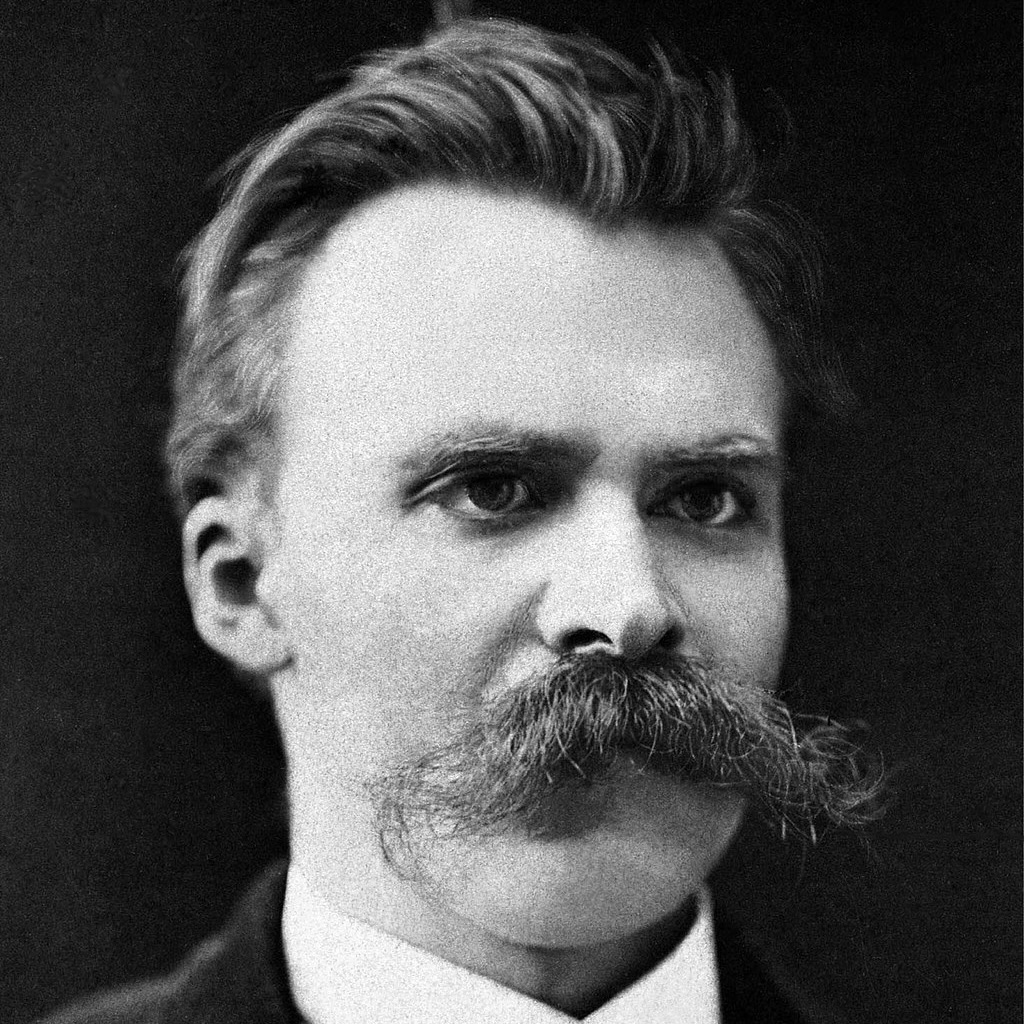
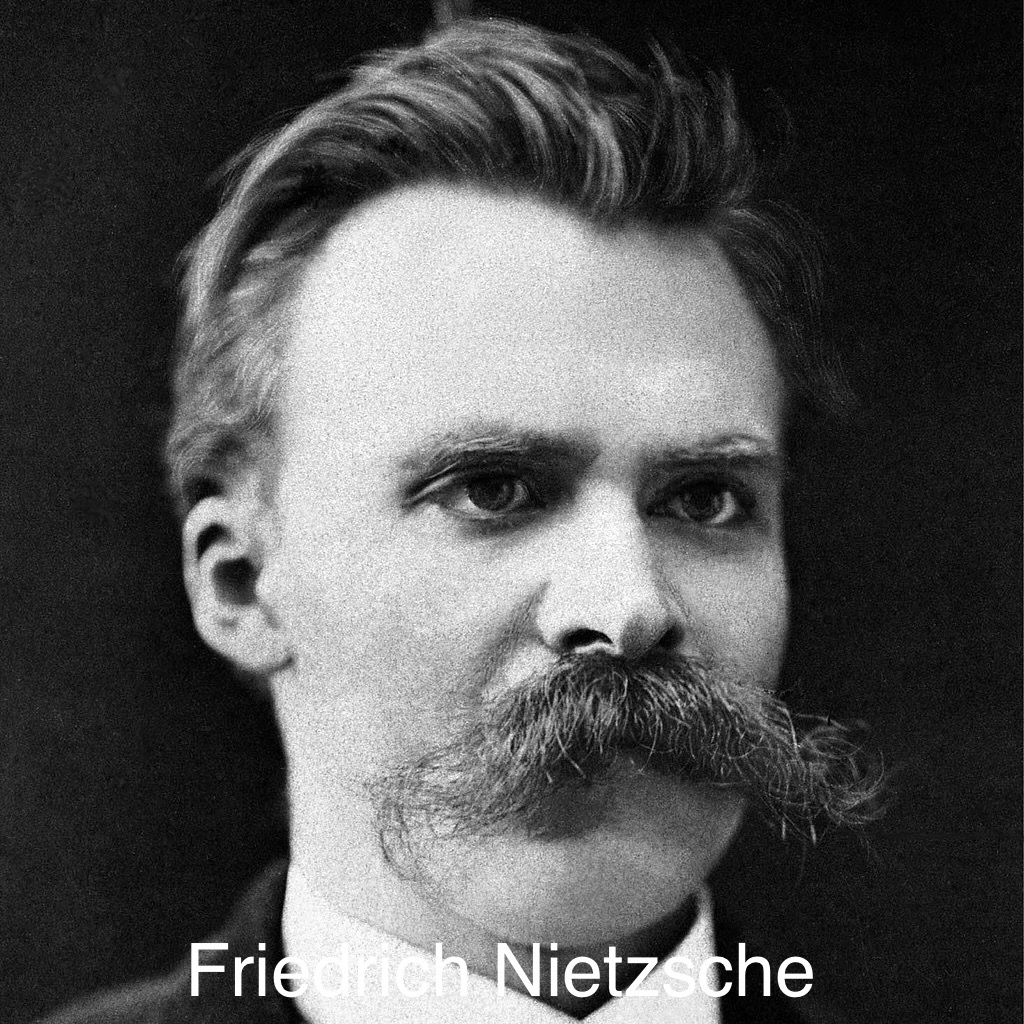
Add names to images

Changed region(s): [[0.4375, 0.9062, 0.8125, 0.9688], [0.1875, 0.9062, 0.3125, 0.9688], [0.4062, 0.9062, 0.4375, 0.9375]]

diff --git a/index.html b/index.html
@@ -9,7 +9,7 @@
       <h2 class="sidebar-title">Human</h2>
       <p class="score-display" id="humanScore">Score: 0</p>
       <button class="change-game hidden" id="changeGame">Change Game</button>
-      <img class="greek-column" src="./assets/colunn.svg" alt="greek column">
+      <img class="greek-column" src="./assets/column.svg" alt="greek column">
     </section>
     <section class="main-container">
       <h1>Philosophy Game!</h1>
@@ -64,7 +64,7 @@
       <img class="icon" src="./assets/computer.svg" alt="computer image">
       <h2 class="sidebar-title">Computer</h2>
       <p class="score-display" id="computerScore">Score: 0</p>
-      <img class="greek-column" src="./assets/colunn.svg" alt="greek column">
+      <img class="greek-column" src="./assets/column.svg" alt="greek column">
     </section>
   </body>
   <script type="text/javascript" src="player.js"></script>
